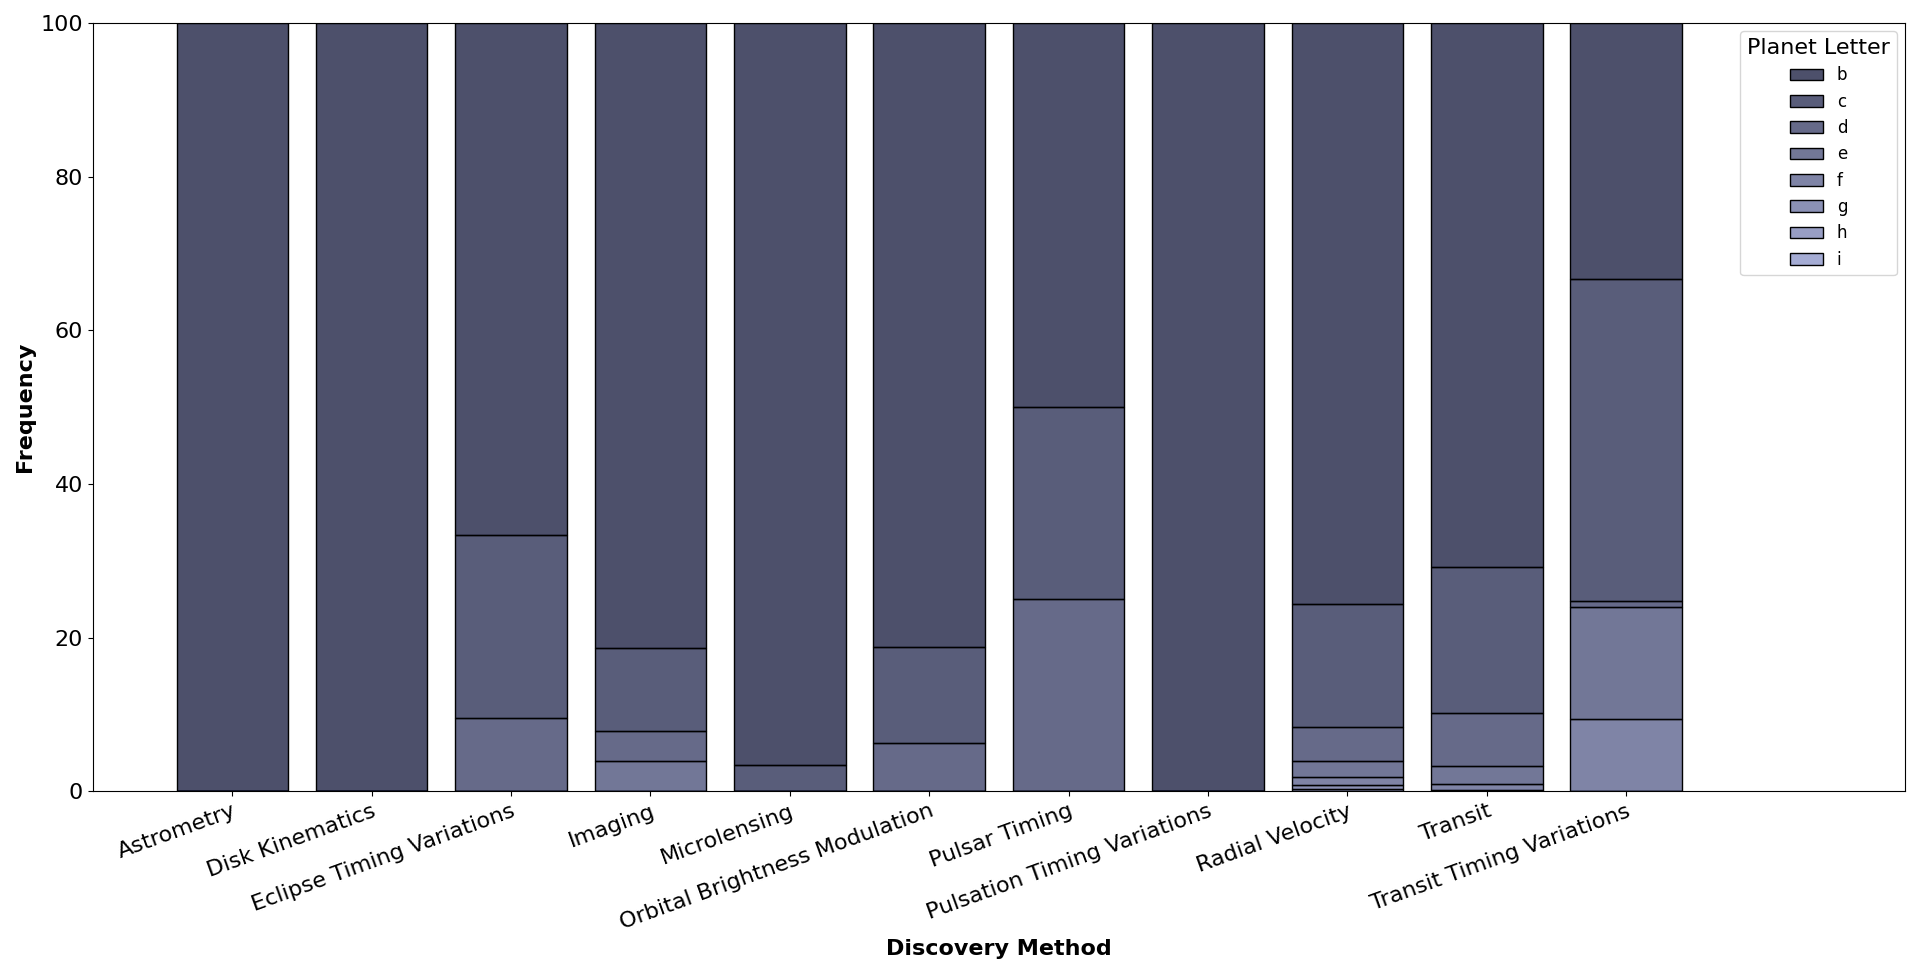
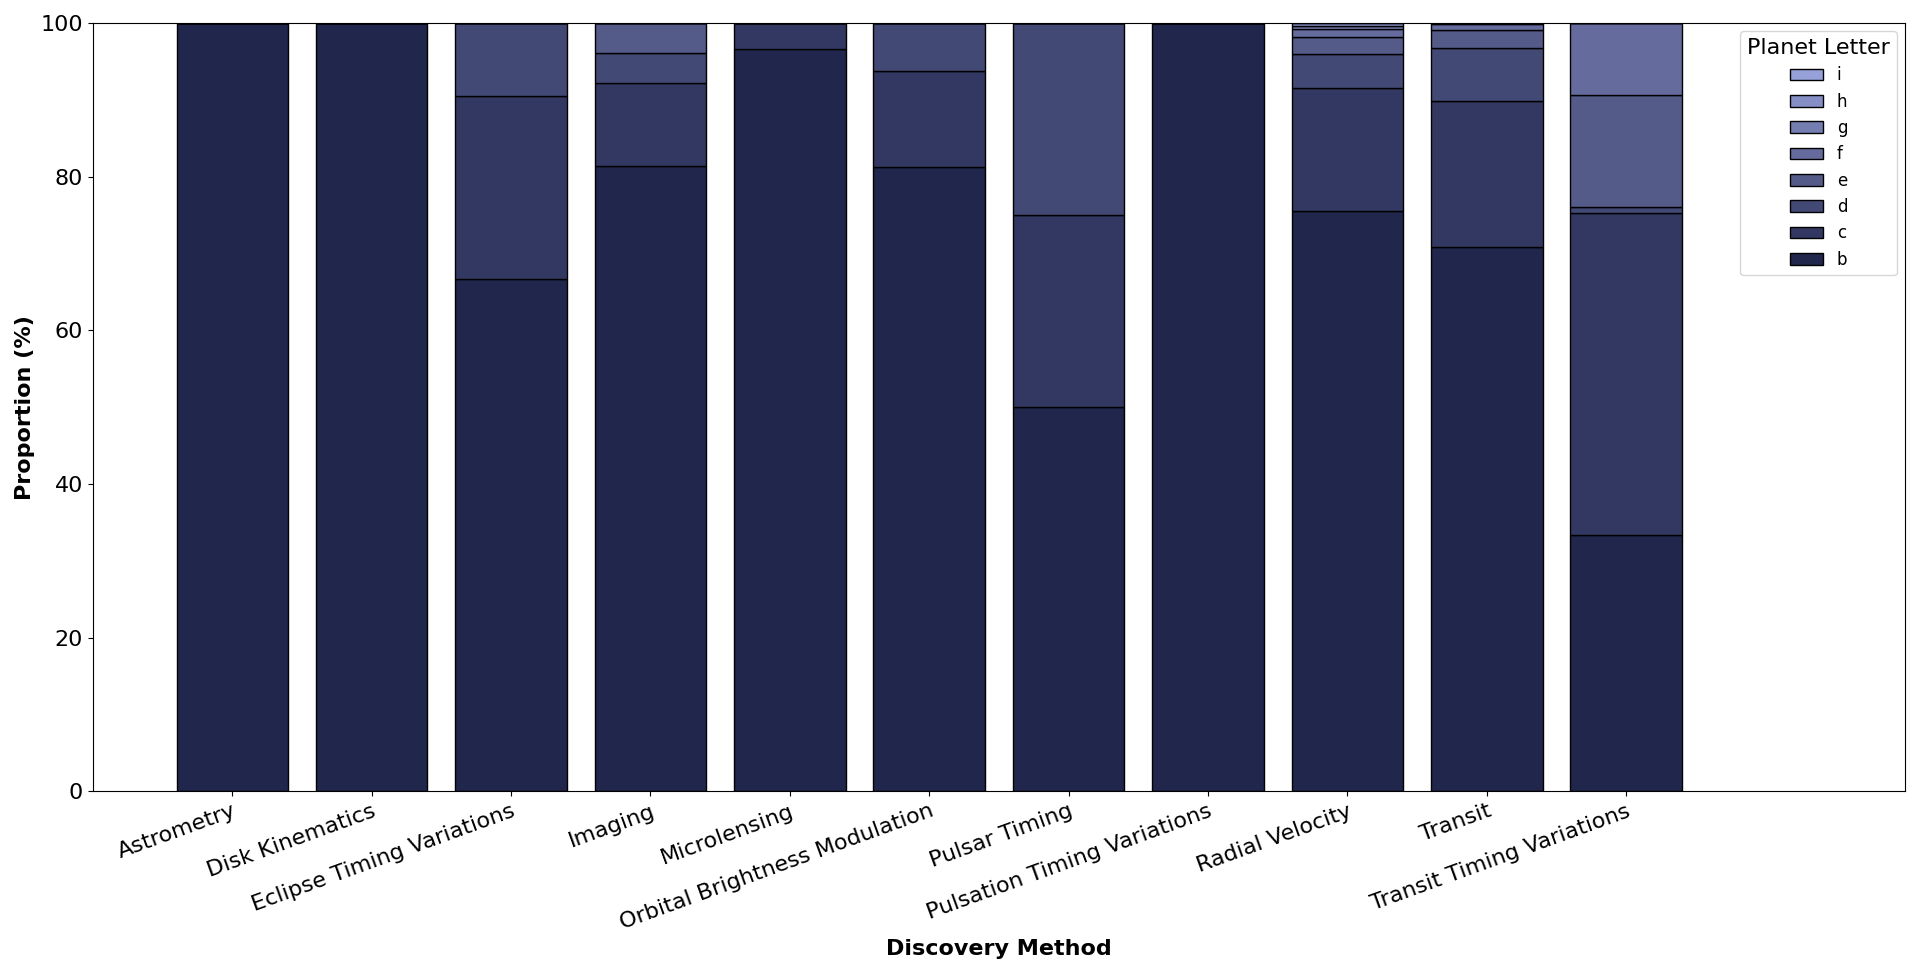
some fixes

diff --git a/Plot_types/Barplot_Stacked/Barplot_Stacked_Python_seaborn.py b/Plot_types/Barplot_Stacked/Barplot_Stacked_Python_seaborn.py
@@ -32,12 +32,12 @@ df[variables] = df[variables].fillna("NA")
 df_plot = df
 df_plot = df_plot.sort_values(cat_var2)
 n_groups = len(set(df_plot[cat_var1].values.tolist()))
-cmap = LinearSegmentedColormap.from_list("my_palette", ["#111539", "#97A1D9"])
-my_palette = [cmap(i/n_groups) for i in np.array(range(n_groups))]
-levels_var1 = pd.crosstab(df_plot[cat_var1], df_plot[cat_var2]).sort_values(by = cat_var1).index.tolist()
-levels_var2 = list(set(df_plot[cat_var2]))
 
 # Absolute frequency plot:
+cmap = LinearSegmentedColormap.from_list("my_palette", ["#111539", "#97A1D9"])
+my_palette = [cmap(i/n_groups) for i in np.array(range(n_groups))]
+levels_var1 = pd.crosstab(df_plot[cat_var1], df_plot[cat_var2]).sort_values(by = cat_var1, ascending = True).index.tolist()
+levels_var2 = list(set(df_plot[cat_var2]))
 fig = plt.figure(
     figsize = (20, 10),
     tight_layout = True
@@ -94,6 +94,10 @@ _ = plt.xlim(
 )
 
 # Relative frequency:
+cmap = LinearSegmentedColormap.from_list("my_palette", ["#97A1D9", "#111539"])
+my_palette = [cmap(i/n_groups) for i in np.array(range(n_groups))]
+levels_var1 = pd.crosstab(df_plot[cat_var1], df_plot[cat_var2]).sort_values(by = cat_var1, ascending = False).index.tolist()
+levels_var2 = list(set(df_plot[cat_var2]))
 fig = plt.figure(
     figsize = (20, 10),
     tight_layout = True
@@ -106,7 +110,8 @@ ax = sns.histplot(
     stat = "probability",
     multiple = "fill",
     shrink = 0.8,
-    palette = my_palette
+    palette = my_palette,
+    alpha = 1
 )
 legend = ax.get_legend()
 handles = legend.legendHandles
@@ -129,8 +134,7 @@ _ = ax.set_xlabel(
     fontweight = "bold"
 )
 _ = ax.set_ylabel(
-    "Frequency",
-    # "Proportion (%)",
+    "Proportion (%)",
     fontsize = 16,
     fontweight = "bold"
 )

diff --git a/Plot_types/Pie/Pie_Python_plotly.py b/Plot_types/Pie/Pie_Python_plotly.py
@@ -6,6 +6,7 @@ path_data = "data/"
 import numpy as np
 import pandas as pd
 import plotly.express as px
+import plotly.graph_objects as go
 from matplotlib.colors import LinearSegmentedColormap, to_hex
 
 # Display options:
